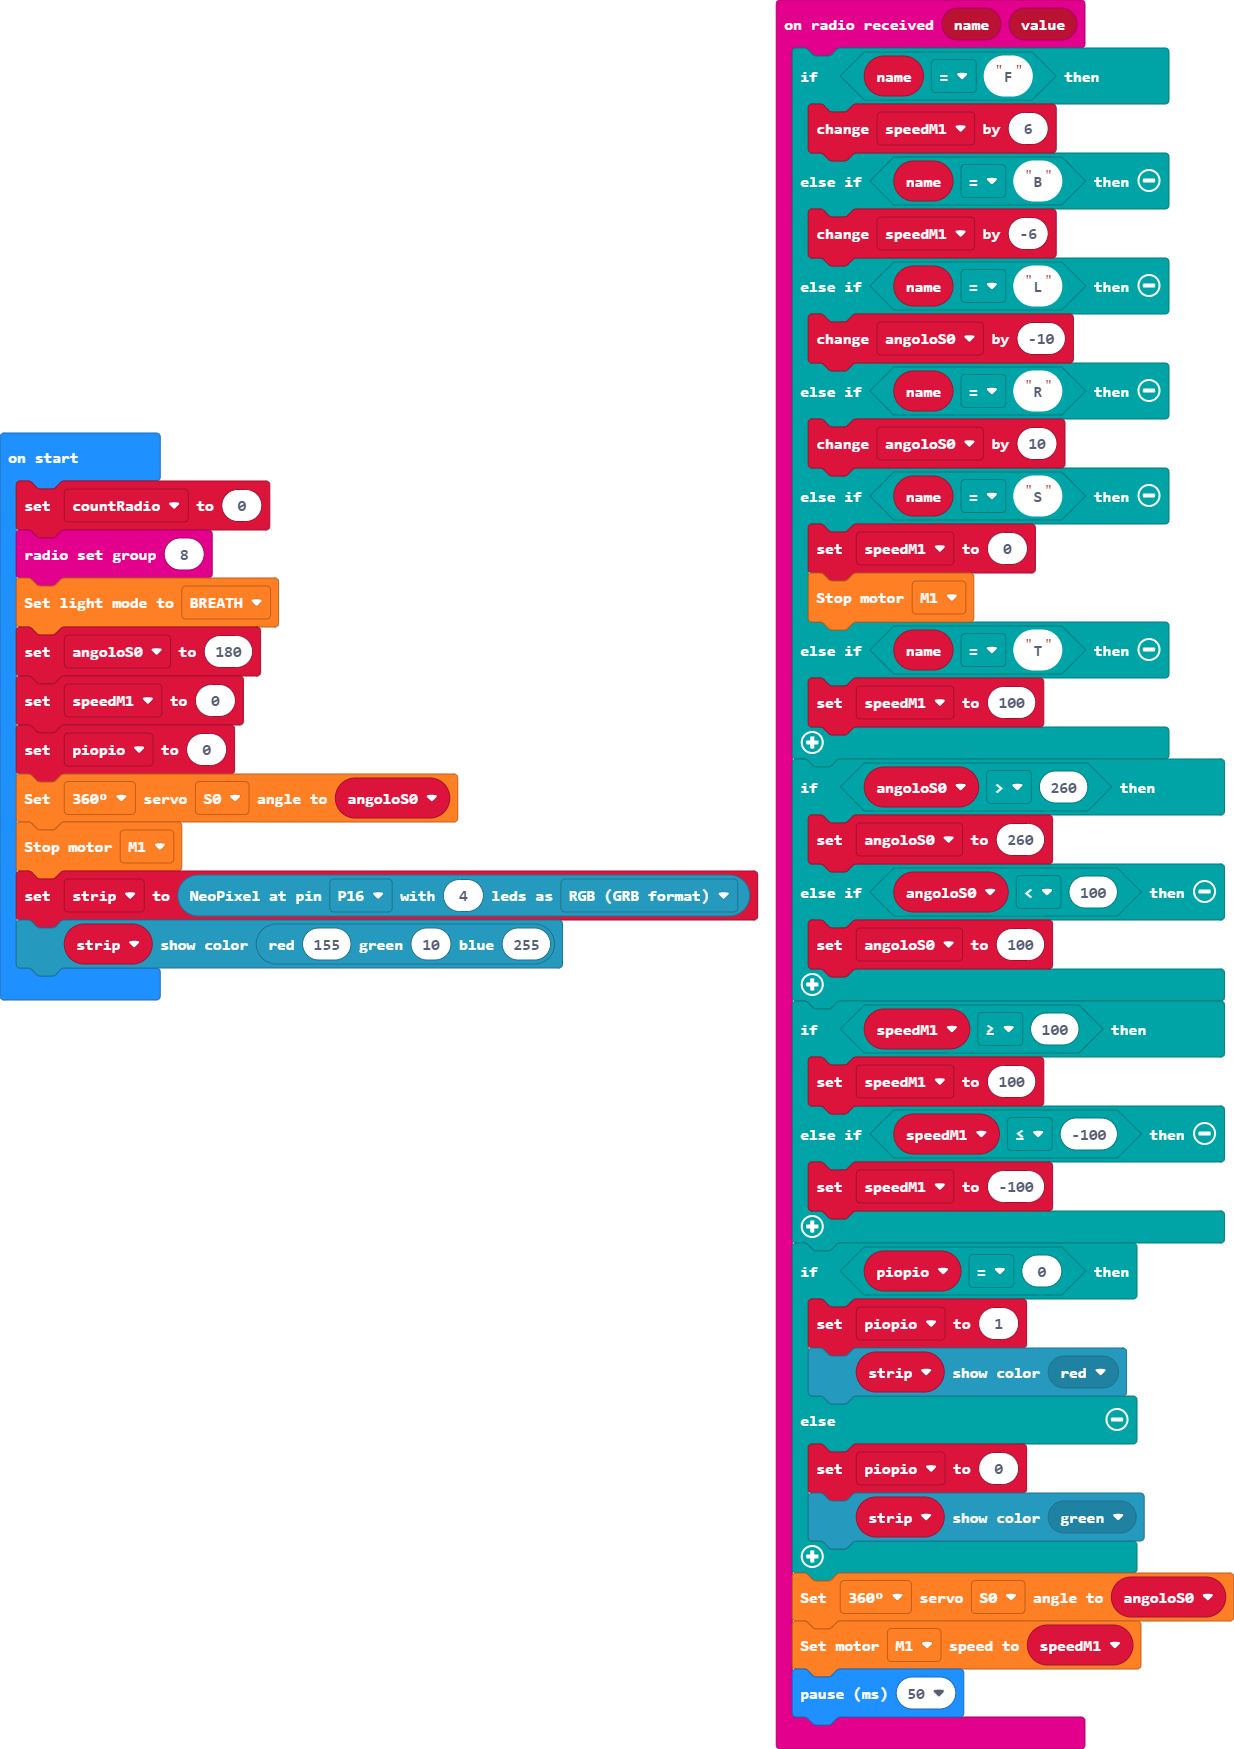
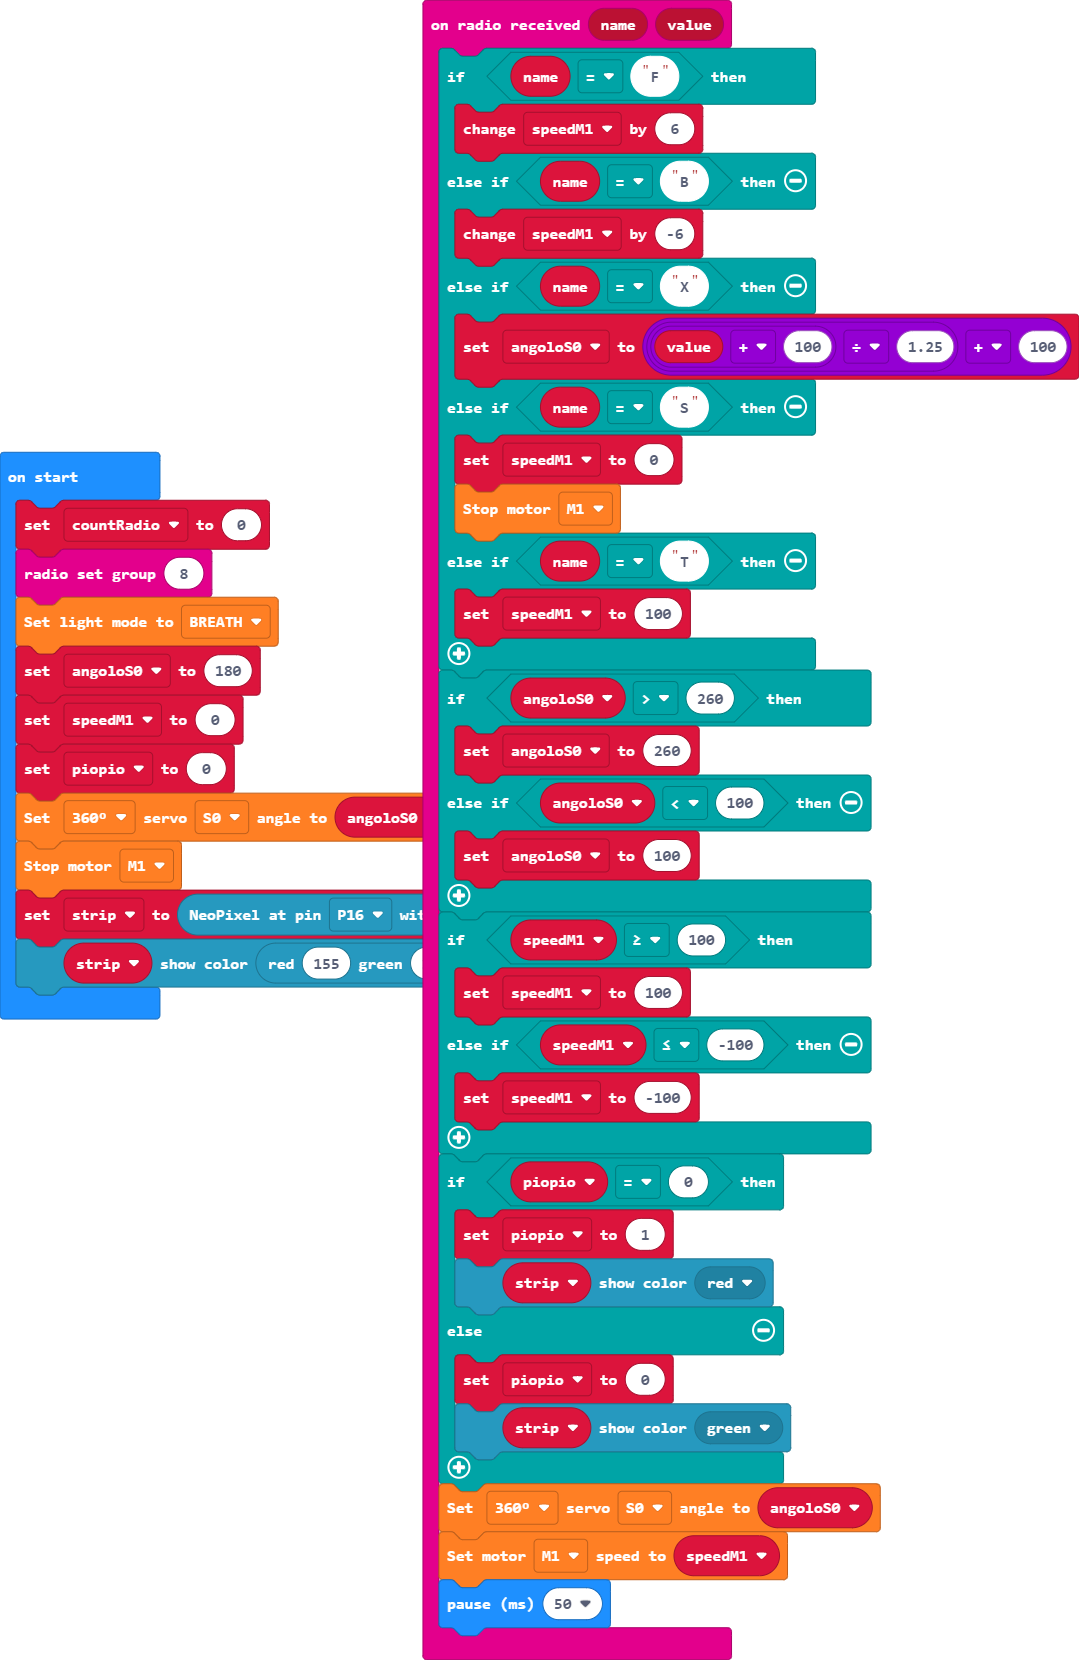
Update pxt.json, main.blocks, main.ts

diff --git a/main.ts b/main.ts
@@ -3,10 +3,8 @@ radio.onReceivedValue(function (name, value) {
         speedM1 += 6
     } else if (name == "B") {
         speedM1 += -6
-    } else if (name == "L") {
-        angoloS0 += -10
-    } else if (name == "R") {
-        angoloS0 += 10
+    } else if (name == "X") {
+        angoloS0 = (value + 100) / 1.25 + 100
     } else if (name == "S") {
         speedM1 = 0
         wuKong.stopMotor(wuKong.MotorList.M1)
